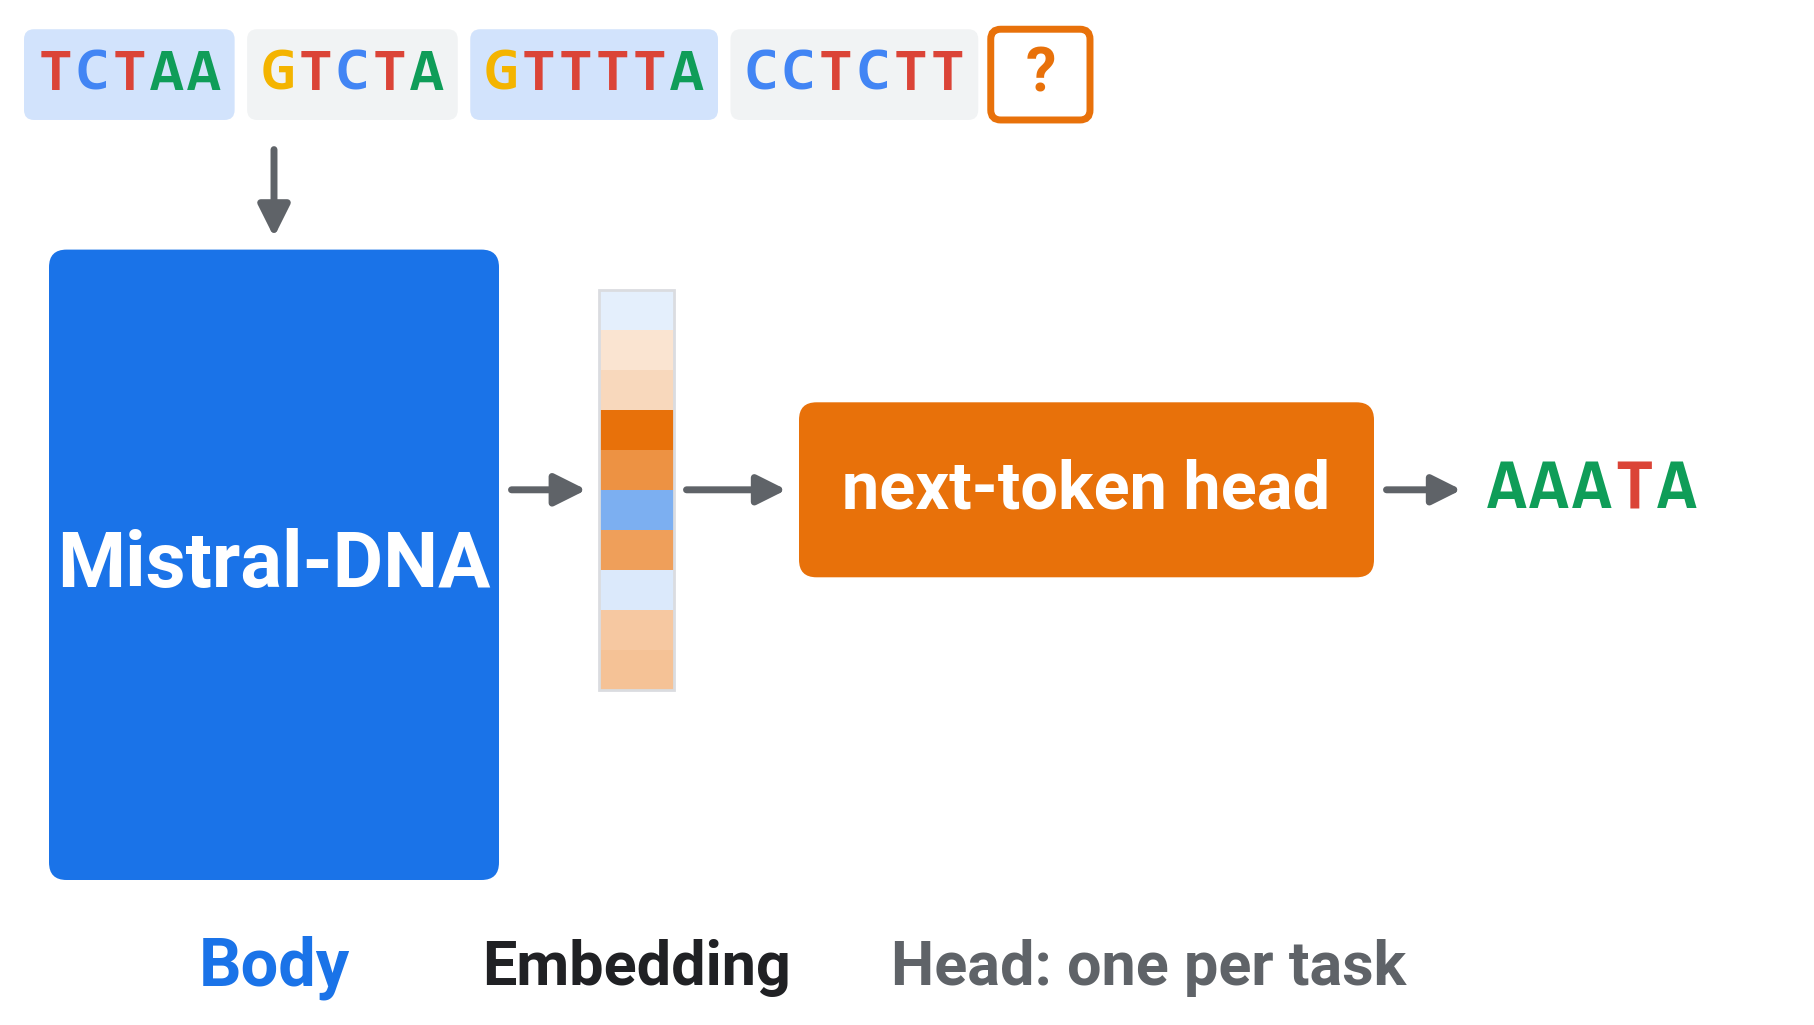
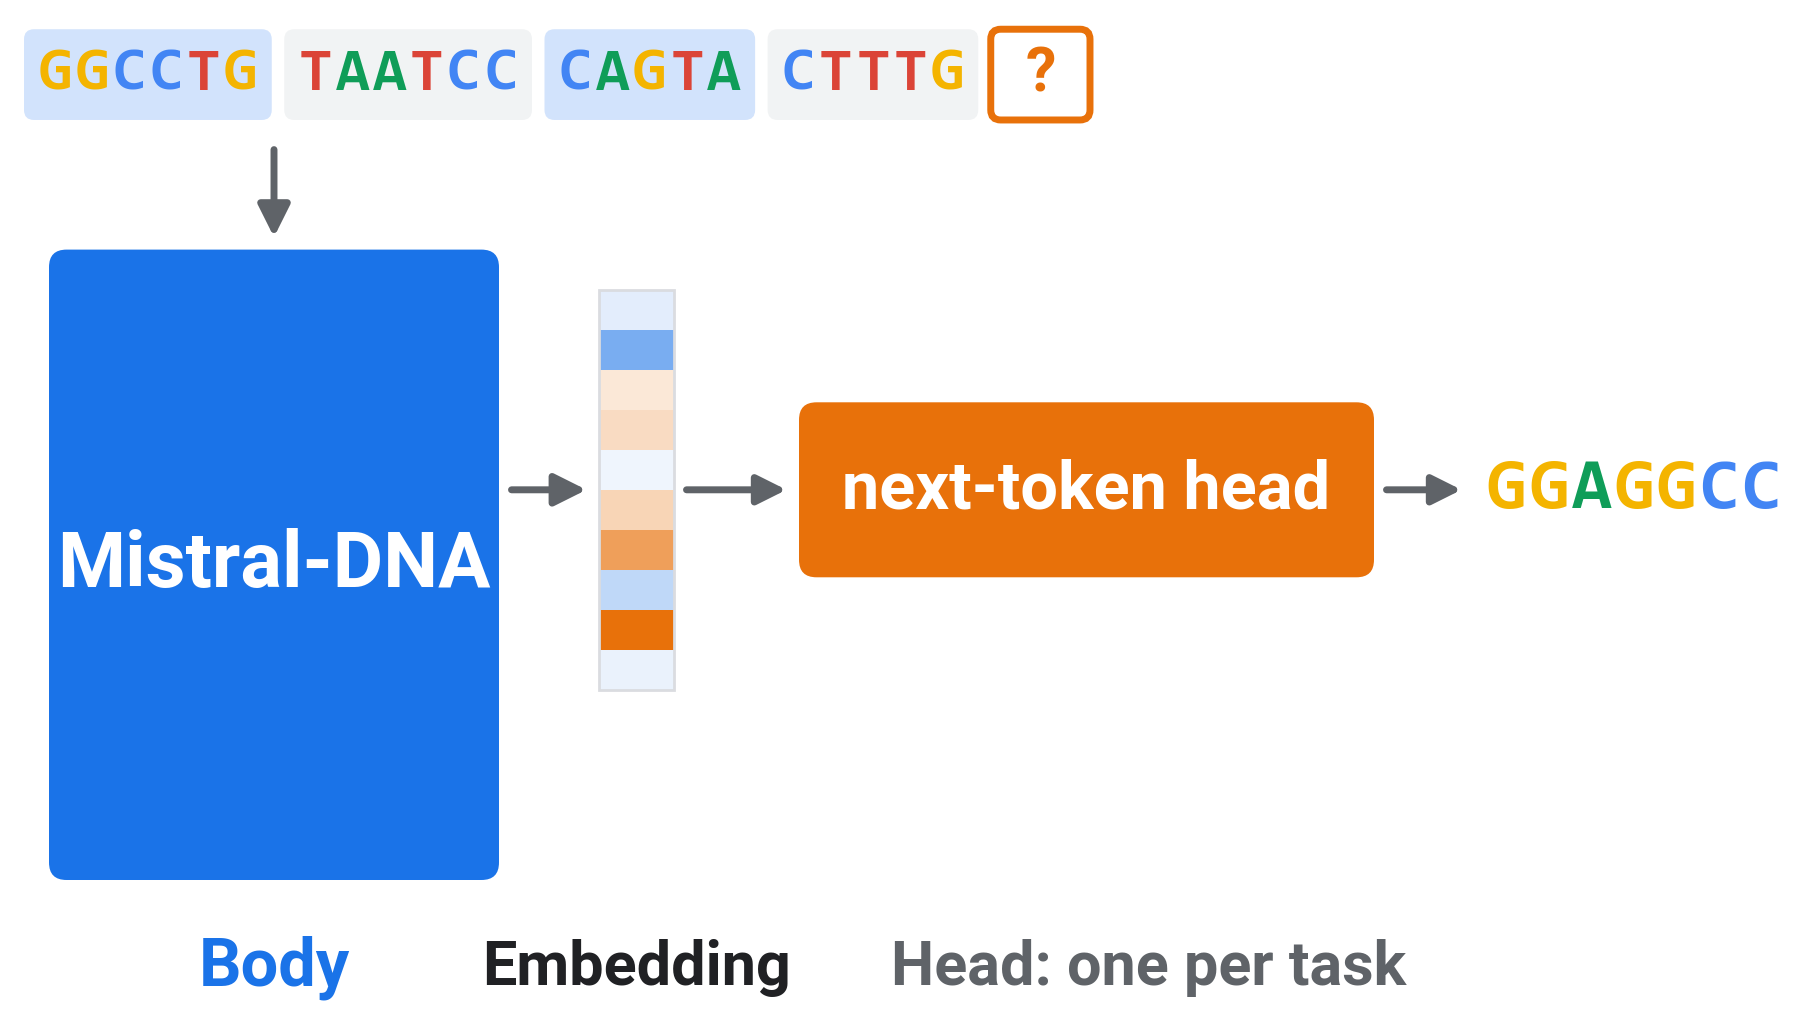
Deck 2: part 1 recap slide, better next-token example, cropped label fixed

diff --git a/slides/02_foundation_models.html b/slides/02_foundation_models.html
@@ -153,8 +153,17 @@
 
 </section>
 
+<section id="part-1-in-three-parts" class="slide level2">
+<h2>1.1 Part 1, in three parts</h2>
+<div class="quarto-figure quarto-figure-center">
+<figure>
+<p><img data-src="assets/custom/d2_cnn_recap.png" class="quarto-figure quarto-figure-center" height="766"></p>
+</figure>
+</div>
+
+</section>
 <section id="pretraining-by-analogy" class="slide level2">
-<h2>1.1 Pretraining, by analogy</h2>
+<h2>1.2 Pretraining, by analogy</h2>
 <div class="r-stack">
 <p><img data-src="assets/custom/pretrain_analogy_0.png" height="742"></p>
 <p><img data-src="assets/custom/pretrain_analogy_1.png" class="fragment" height="742"></p>
@@ -162,14 +171,14 @@
 
 </section>
 <section id="pretraining-a-model" class="slide level2">
-<h2>1.2 Pretraining a model</h2>
+<h2>1.3 Pretraining a model</h2>
 <div class="r-stack">
 <p><img data-src="assets/custom/d2_adapt_0.png" height="742"></p>
 </div>
 
 </section>
 <section id="one-model-many-tasks" class="slide level2">
-<h2>1.3 One model, many tasks</h2>
+<h2>1.4 One model, many tasks</h2>
 <div class="r-stack">
 <p><img data-src="assets/custom/d2_adapt_1.png" height="742"></p>
 <p><img data-src="assets/custom/d2_adapt_2.png" class="fragment" height="742"></p>
@@ -178,7 +187,7 @@
 
 </section>
 <section id="two-pretraining-objectives" class="slide level2">
-<h2>1.4 Two pretraining objectives</h2>
+<h2>1.5 Two pretraining objectives</h2>
 <div class="r-stack">
 <p><img data-src="assets/custom/d2_obj_0.png" height="723"></p>
 <p><img data-src="assets/custom/d2_obj_1.png" class="fragment" height="723"></p>
@@ -186,7 +195,7 @@
 
 </section>
 <section id="what-the-model-predicts" class="slide level2">
-<h2>1.5 What the model predicts</h2>
+<h2>1.6 What the model predicts</h2>
 <div class="quarto-figure quarto-figure-center">
 <figure>
 <p><img data-src="assets/custom/d2_next.png" class="quarto-figure quarto-figure-center" height="766"></p>
@@ -195,7 +204,7 @@
 
 </section>
 <section id="four-stages" class="slide level2">
-<h2>1.6 Four stages</h2>
+<h2>1.7 Four stages</h2>
 <div class="r-stack">
 <p><img data-src="assets/custom/d2_stages_0.png" height="742"></p>
 <p><img data-src="assets/custom/d2_stages_1.png" class="fragment" height="742"></p>
